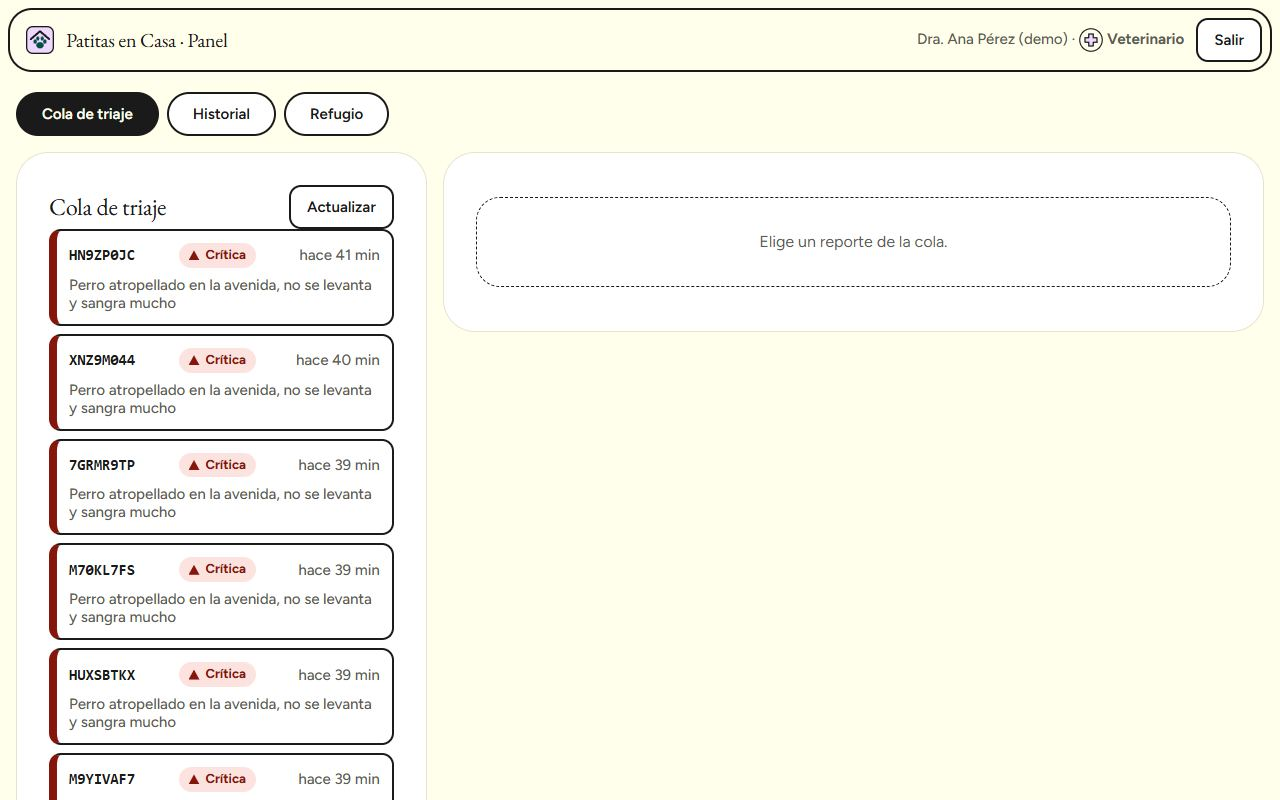
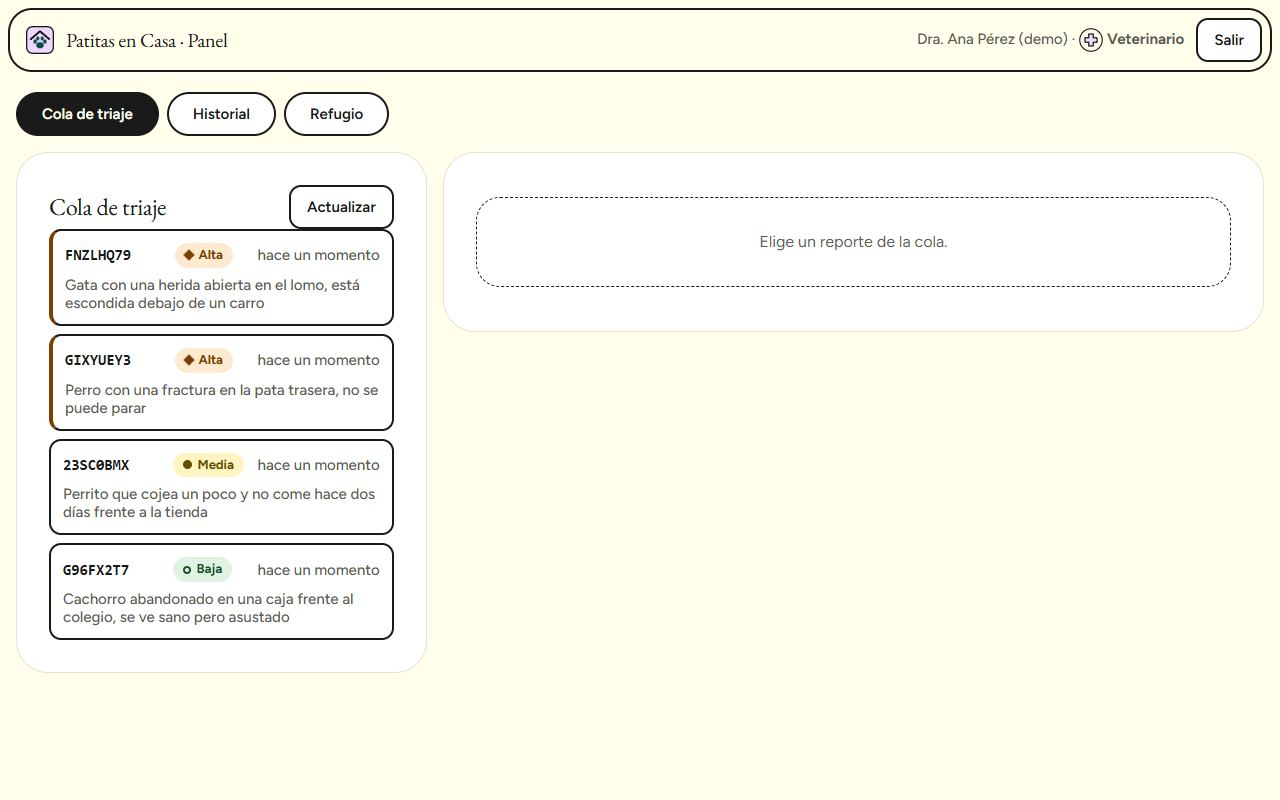
docs: guía de estilo al día con main (cola con formas, SW v10, regresión visual) (#313)

Changed region(s): [[0.0312, 0.2812, 0.3125, 1.0]]

diff --git a/docs/tesis/guia-estilo.md b/docs/tesis/guia-estilo.md
@@ -1,6 +1,6 @@
 # Guía de estilo — Patitas en Casa
 
-Sistema visual del rediseño de noviembre de 2026 (#293 a #310). Todos los valores salen del
+Sistema visual del rediseño de noviembre de 2026 (#293 a #322). Todos los valores salen del
 código; si esta guía y el código no coinciden, manda el código y se corrige la guía.
 
 | Archivo | Qué define |
@@ -66,7 +66,7 @@ marcó sobre la fila elegida de la cola (lavanda, 4,38:1); quedó `#5c5c54` (#29
 - Servidas por el propio servidor (`/diseno/fuentes/`, 44 KB en total, subconjunto latino con
   á é í ó ú ñ ü ¿ ¡ « »), licencia SIL OFL 1.1 junto a cada archivo y `font-display: swap`. La CSP
   (`default-src 'self'`) no cambia y la IP del ciudadano no llega a ningún tercero.
-- La PWA guarda las dos fuentes en su service worker (`patitas-pwa-v9`): abre sin señal con ellas.
+- La PWA guarda las dos fuentes en su service worker (desde `patitas-pwa-v9`; hoy `v10`, con el ícono y las ilustraciones): abre sin señal con ellas.
 - Respaldo: Georgia para la serif y `system-ui` para la sans.
 
 | Elemento | Tamaño |
@@ -155,7 +155,9 @@ revisa que sean XML válido, seguro, con la paleta y que se usen.
 6. `prefers-reduced-motion` apaga las transiciones.
 7. axe-core con las etiquetas de `scripts/accesibilidad/revisar.mjs` (WCAG 2.2 AA y buenas
    prácticas) en las pantallas públicas y las de los seis roles, a 360, 768 y 1440 px, claro y
-   oscuro: sin fallas en cada PR del rediseño (#294 a #310).
+   oscuro: sin fallas en cada PR del rediseño (#294 a #321).
+8. Regresión visual (#316): 16 pantallas comparadas con sus capturas base en cada PR
+   (`e2e/aspecto.spec.mjs`, tolerancia del 1 %); ver `docs/aprende/e2e.md`.
 
 ## 8. Antes y después
 
